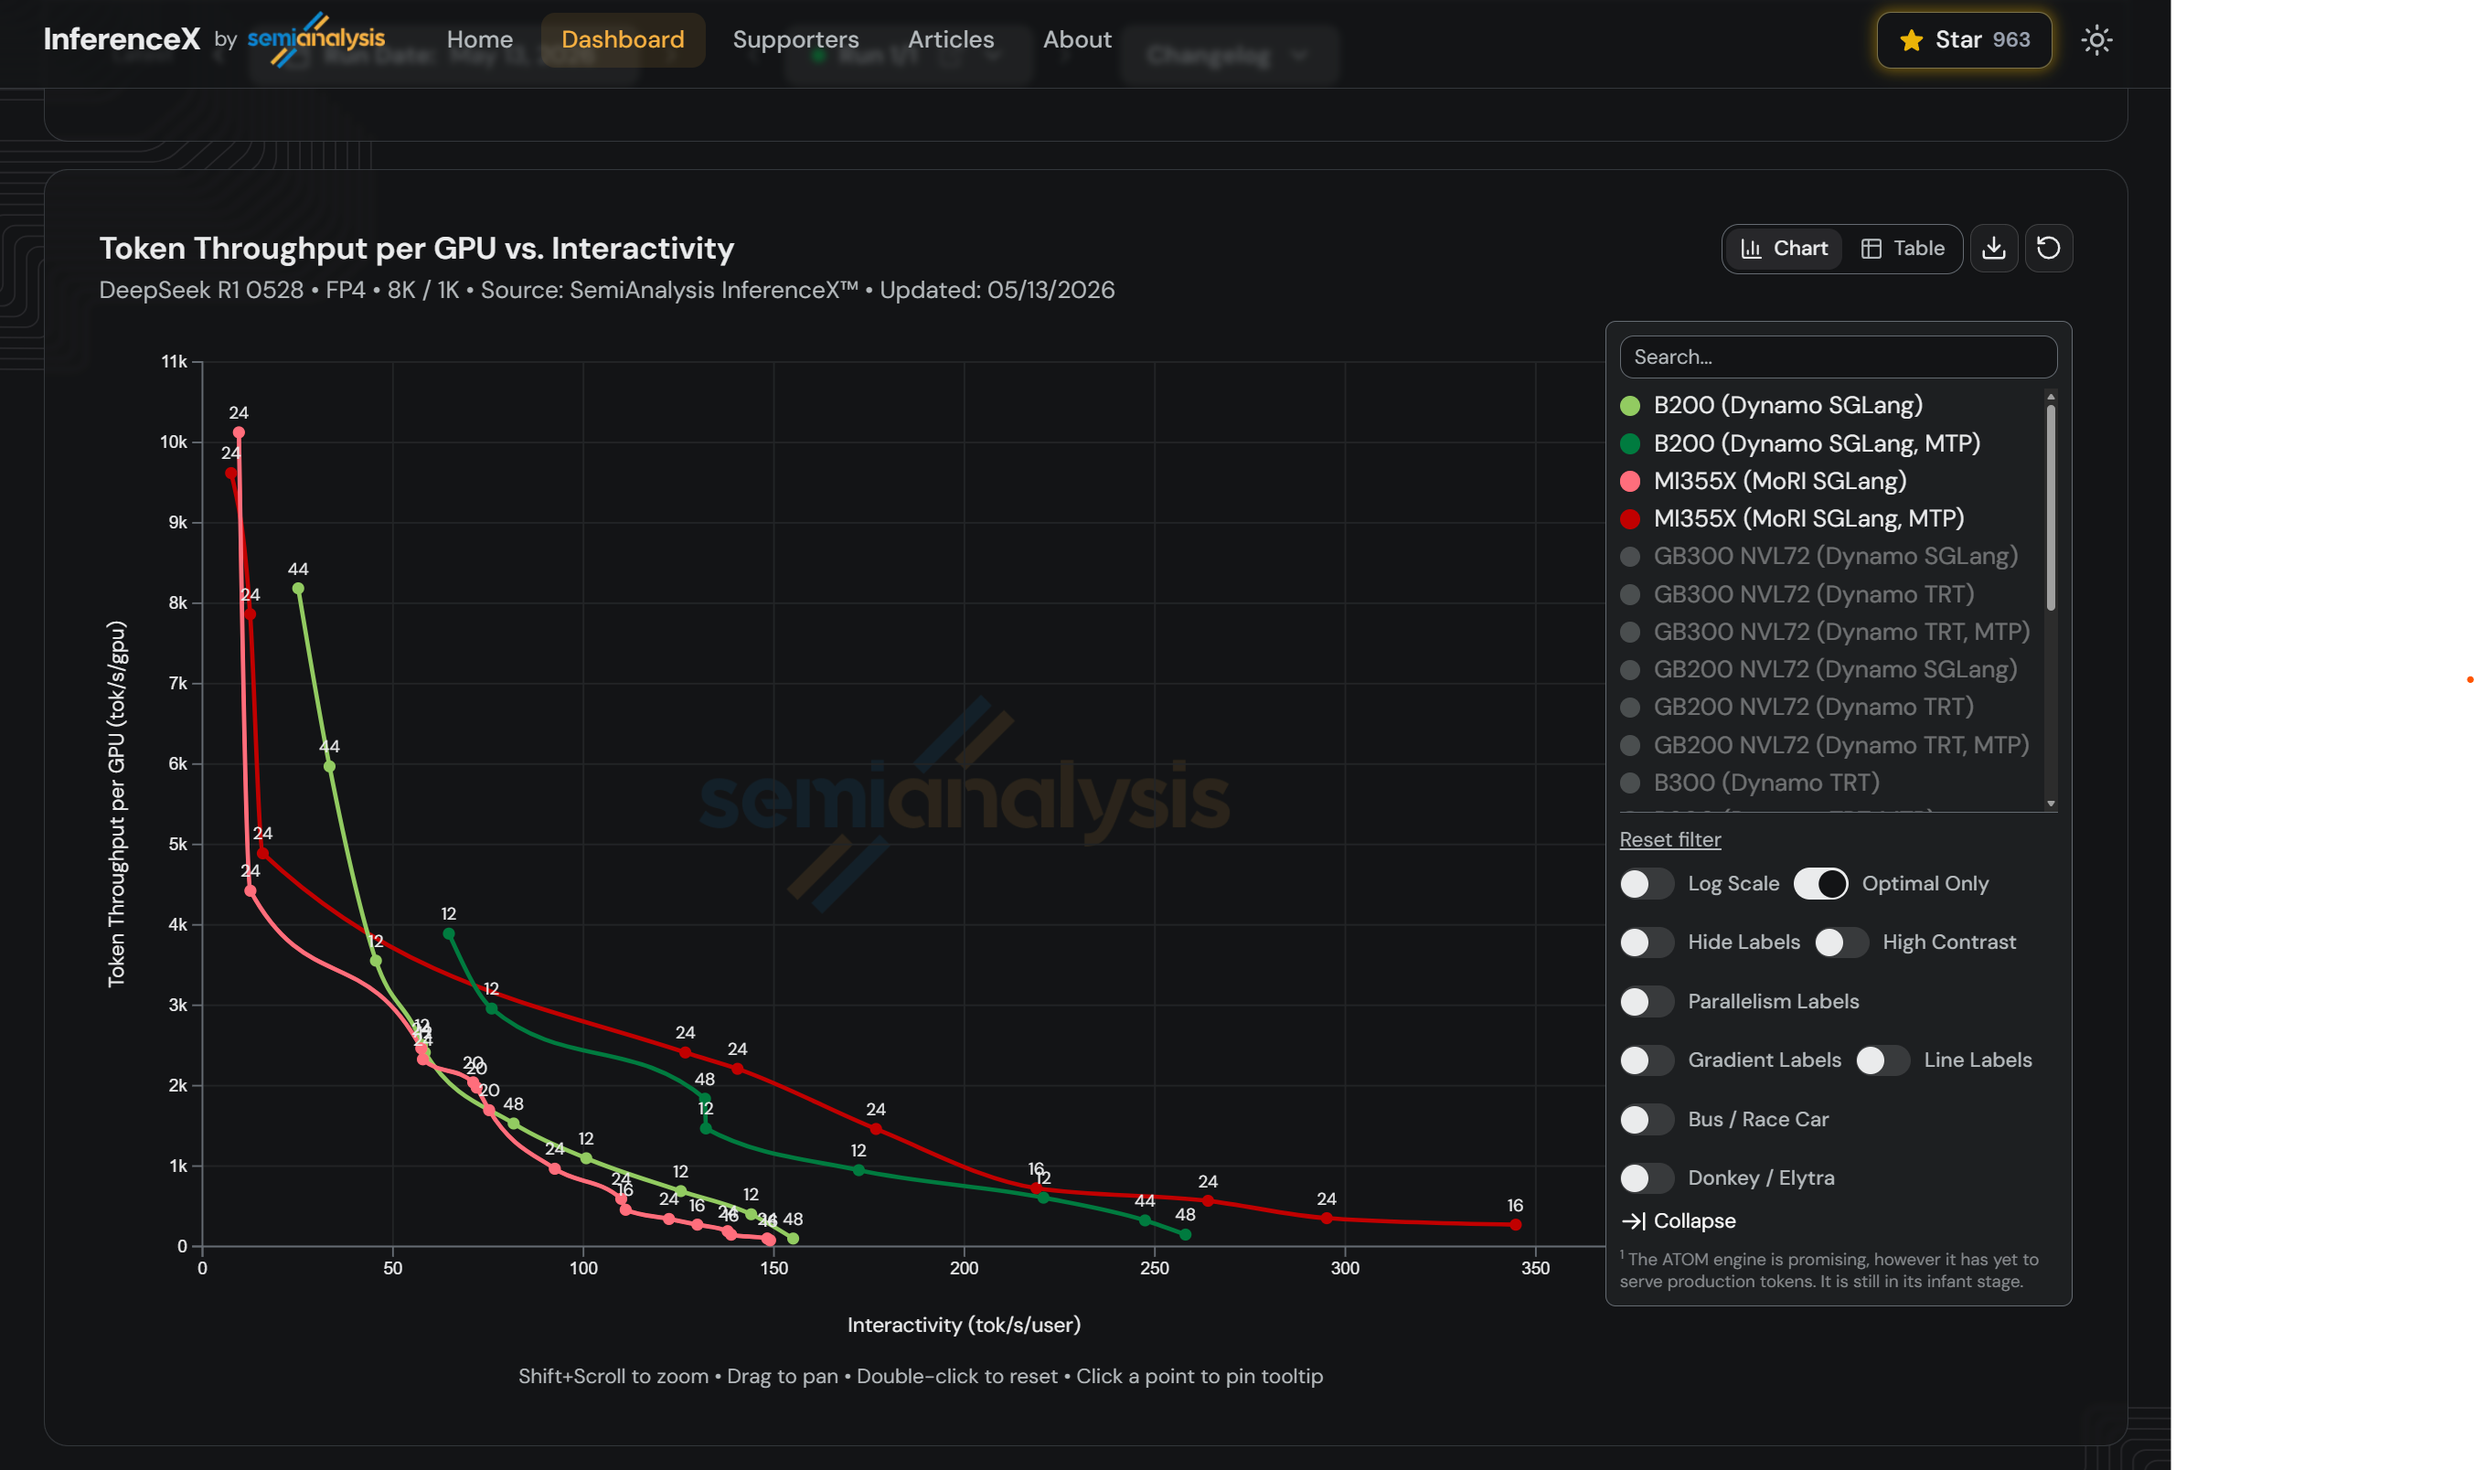
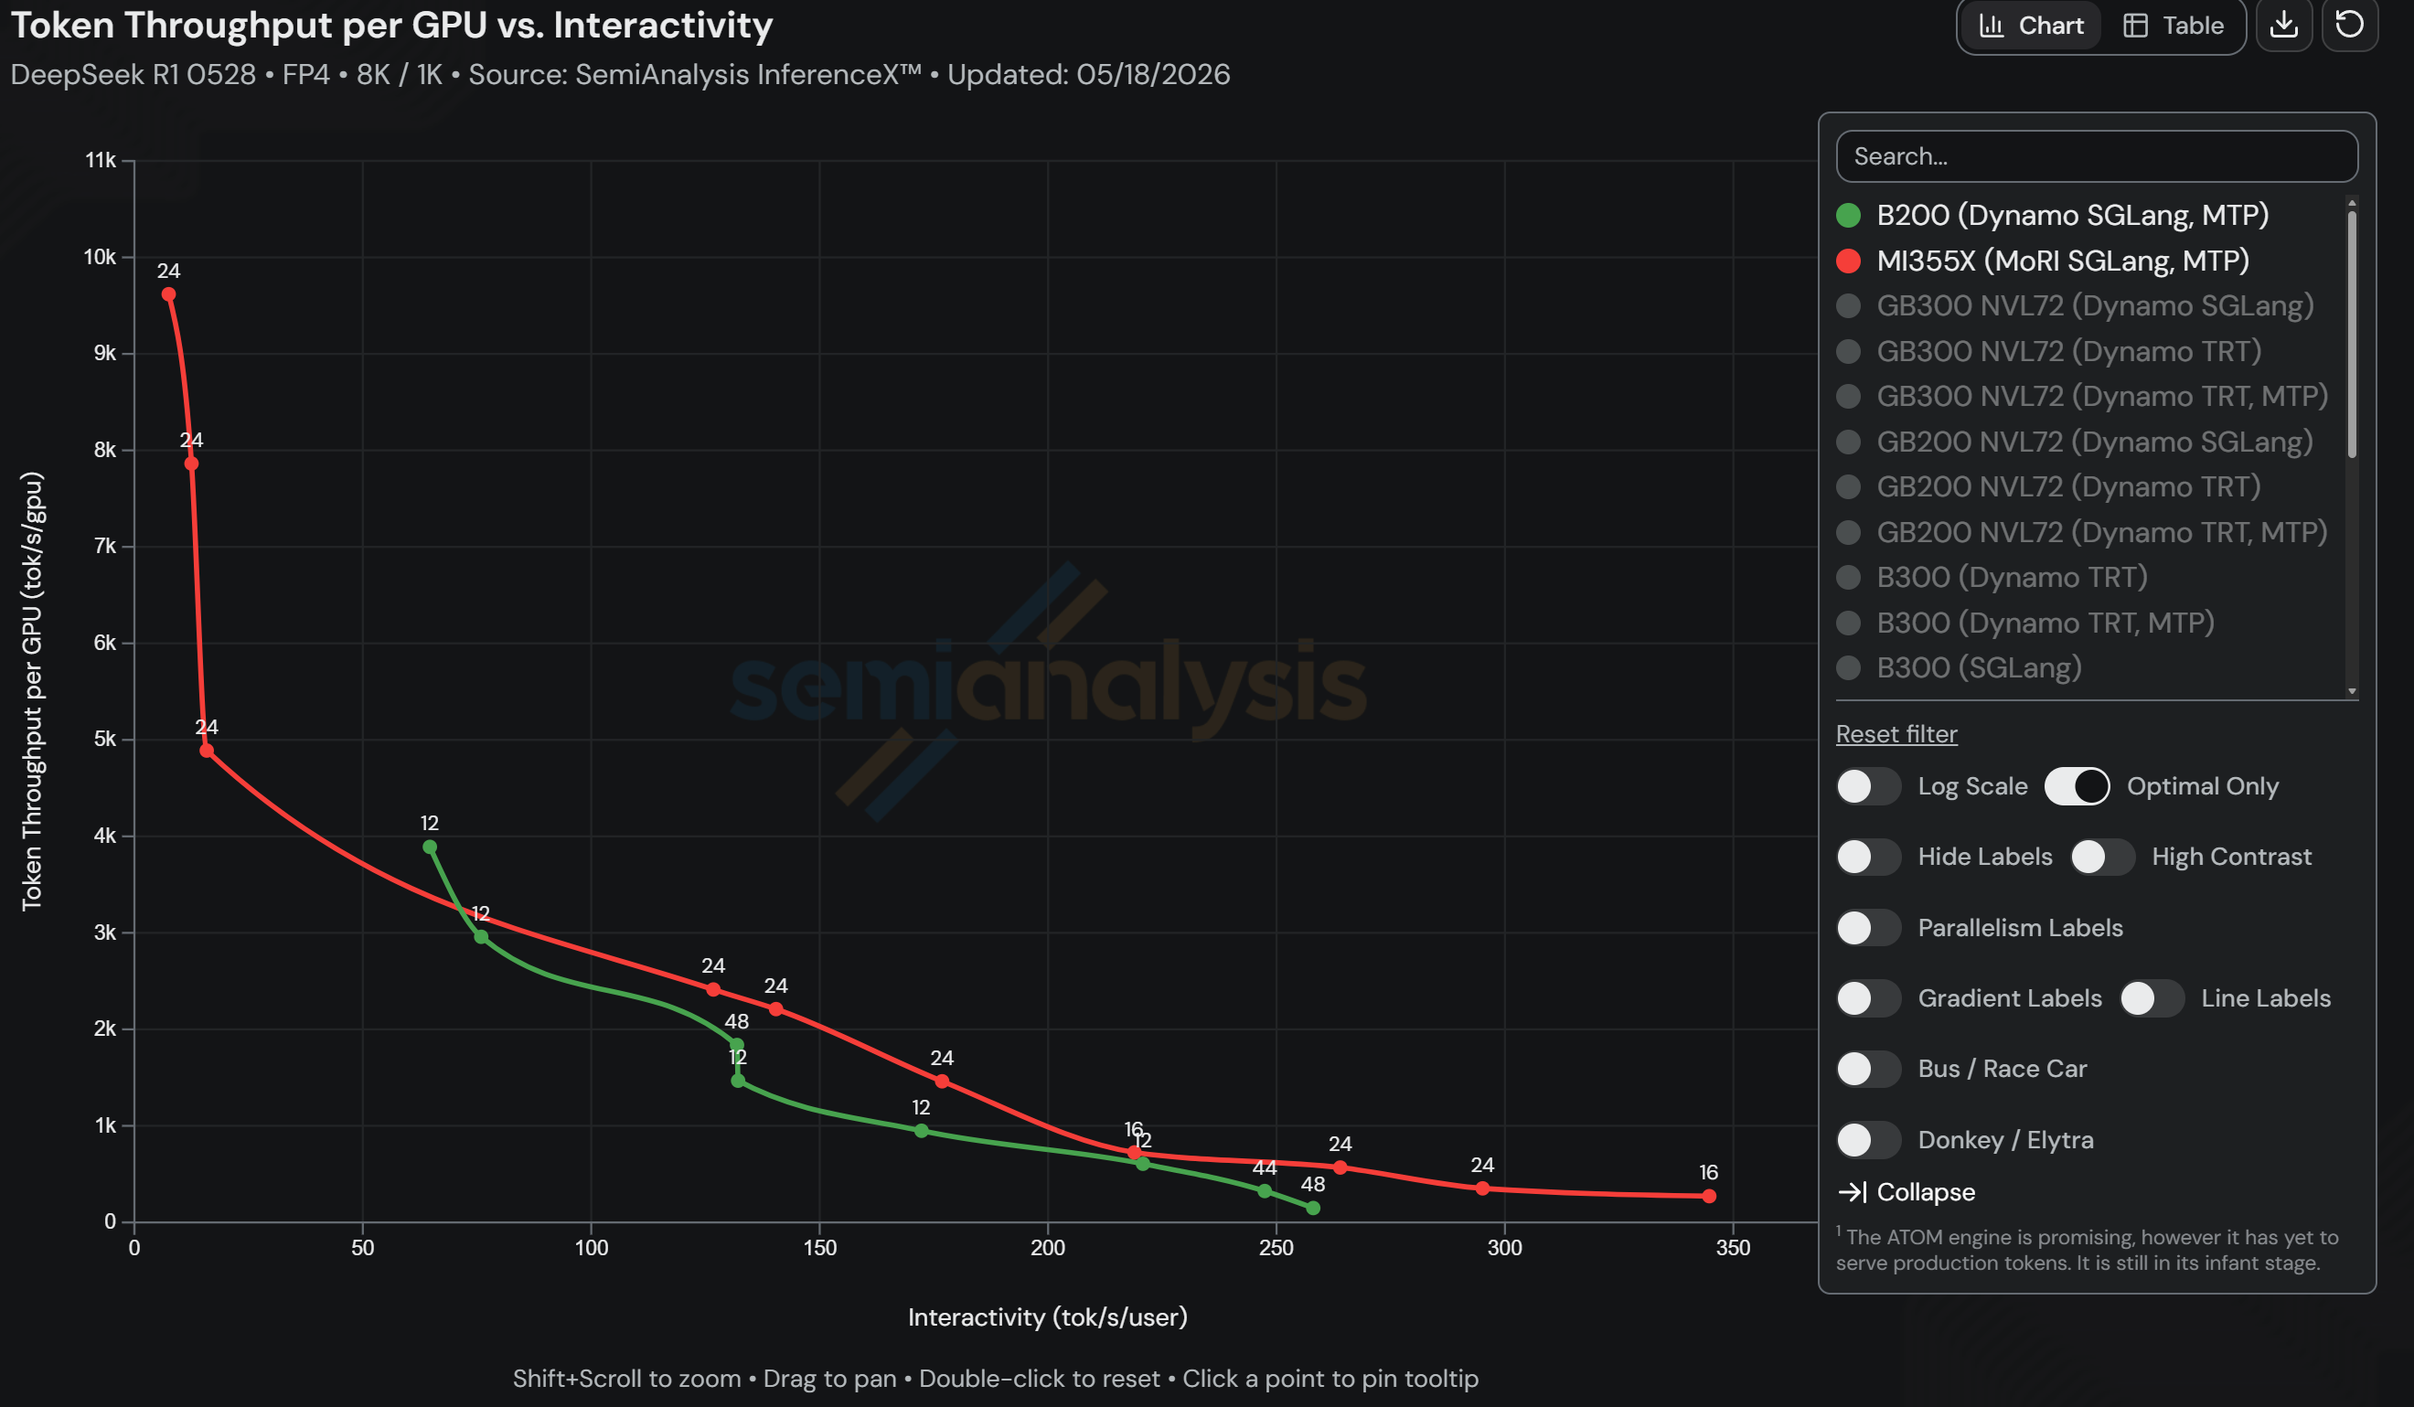
update1 (#1)

diff --git a/blog_mori_disagg_inference-v2.md b/blog_mori_disagg_inference-v2.md
@@ -13,8 +13,8 @@ This post describes what we achieve, how we achieve it, and our plans for the ro
 - **2,378 tok/s/GPU** on 24 GPUs — **1.22× higher throughput per GPU** than B200 SGLang (48 GPUs).
 - Full-stack optimizations: AITER GEMM tuning, MoRI quantized all-to-all (up to **2.56× bandwidth reduction**), MoRI-IO KV cache backend (**~10% higher throughput** than Mooncake), Two-Batch Overlap with SDMA, Specv2 MTP on ROCm, and CPU streaming optimization.
 
-![InferenceX TCO pareto curve — AMD Instinct™ MI355X MoRI SGLang vs B200 Dynamo SGLang](curve1.png)
-
+![InferenceX TCO comparison — AMD Instinct™ MI355X MoRI SGLang vs B200 Dynamo SGLang](tco1.png)
+*Figure 1: InferenceX TCO comparison — AMD Instinct™ MI355X MoRI SGLang vs B200 Dynamo SGLang*
 
 ## Results at a Glance
 
@@ -26,24 +26,23 @@ At the typical operating point representative of production coding assistants an
 
 AMD Instinct™ MI355X delivers **2.9% lower cost** than B200 TRT-LLM, **39% lower cost** than B200 SGLang, and **1.22× higher throughput** per GPU than B200 SGLang — winning on both cost and performance simultaneously.
 
-![Full pareto curve — throughput vs interactivity for AMD Instinct™ MI355X and B200 configurations](tco1.png)
-
+![Full pareto curve — throughput vs interactivity for AMD Instinct™ MI355X and B200 configurations](curve1.png)
+*Figure 2: Full pareto curve — throughput vs interactivity for AMD Instinct™ MI355X and B200 configurations*
 
 ## Key Optimizations
 
 We achieved these results through a series of full-stack optimizations spanning compute kernels, communication, and serving infrastructure. The following sections walk through each in detail.
 
-### AITER GEMM Tuning for MoE in Distributed Scenarios
+### FlyDSL FusedMoE for High-Performance MoE Compute
 
-MoE GEMM performance is shape-dependent, and the dominant shapes differ by serving scenario. In **low-latency pure TP** deployments, each GPU processes all experts with small batch sizes, producing tall-skinny GEMMs. In **high-throughput DP+EP** deployments, tokens are distributed across expert-parallel ranks, yielding different N/K dimensions per expert. We provide separate tuning configurations for each scenario to maximize MI355X utilization.
+Traditionally, FusedMoE kernels on AMD relied solely on Composable Kernel (CK) — hand-tuned templates that are performant but inflexible. [AITER](https://github.com/ROCm/aiter) introduces **FlyDSL** (Flexible Layout Python DSL), a Python DSL backed by an MLIR stack for authoring GPU kernels with explicit layouts and tiling, as a competitive FusedMoE kernel path for mixed-precision MoE (e.g., A4W4) on MI355X. FlyDSL enables rapid exploration of kernel configurations beyond what hand-tuned CK templates cover, and at a typical concurrency of 512, we gained up to **1.6× latency reduction** for the FusedMoE compute.
 
-[AITER](https://github.com/ROCm/aiter) optimizes both the key GEMM and FusedMoE compute kernels on MI355X:
+MoE GEMM performance is shape-dependent, and the dominant shapes differ by serving scenario. In **low-latency pure TP** deployments, each GPU processes all experts with small batch sizes, producing tall-skinny GEMMs. In **high-throughput DP+EP** deployments, tokens are distributed across expert-parallel ranks, yielding different N/K dimensions per expert. FlyDSL allows us to provide separate tuning configurations for each scenario to maximize MI355X utilization.
 
-**Triton blockscale GEMM tuning** — the A8W8 blockscale GEMM path uses per-shape tuned configurations for MI355X (gfx950). Key shapes like (N=7168, K=16384) and (N=16384, K=1536) — matching DeepSeek-R1's expert dimensions — are tuned with optimized block sizes, warp counts, pipeline stages, and k-splitting parameters. Special-case tuning for ultra-small M values (≤8, ≤256) targets the small per-expert batches typical in EP decode.
+**Triton blockscale GEMM tuning** — alongside FlyDSL, the A8W8 blockscale GEMM path uses per-shape tuned configurations for MI355X (gfx950). Key shapes like (N=7168, K=16384) and (N=16384, K=1536) — matching DeepSeek-R1's expert dimensions — are tuned with optimized block sizes, warp counts, pipeline stages, and k-splitting parameters. Special-case tuning for ultra-small M values (≤8, ≤256) targets the small per-expert batches typical in EP decode.
 
-![GEMM tuning speedup](gemm_tuning_speedup.svg)
-
-**FlyDSL for FusedMoE** — traditionally, FusedMoE kernels on AMD relied solely on Composable Kernel (CK). FlyDSL (Flexible Layout Python DSL) — a Python DSL backed by an MLIR stack for authoring GPU kernels with explicit layouts and tiling — is now integrated into AITER as a competitive FusedMoE kernel path for mixed-precision MoE (e.g., A4W4), enabling rapid exploration of kernel configurations beyond what hand-tuned CK templates cover. At a typical concurrency of 512, we gained up to **1.6× latency reduction** for this part.
+![FlyDSL kernel and Triton gemm tuning speedup](gemm_tuning_speedup.svg)
+*Figure 3: FlyDSL kernel and Triton gemm tuning speedup*
 
 
 ### MoRI Quantized All-to-All for Expert Parallelism
@@ -134,6 +133,7 @@ The dispatch and combine operations are split into A/B phases — `dispatch_a` f
 When SDMA is enabled (`MORI_ENABLE_SDMA=true`), data transfers run on AMD's dedicated System DMA engines that move data between GPU memory and network interfaces without consuming any compute units. This achieves true zero-compute-overhead communication, keeping every compute unit available for GEMM operations throughout the pipeline.
 
 ![Two-Batch Overlap pipeline diagram — interleaved compute and communication streams](tbo1.png)
+*Figure 4: Two-Batch Overlap pipeline diagram — interleaved compute and communication streams*
 
 
 ### Specv2 MTP on ROCm
